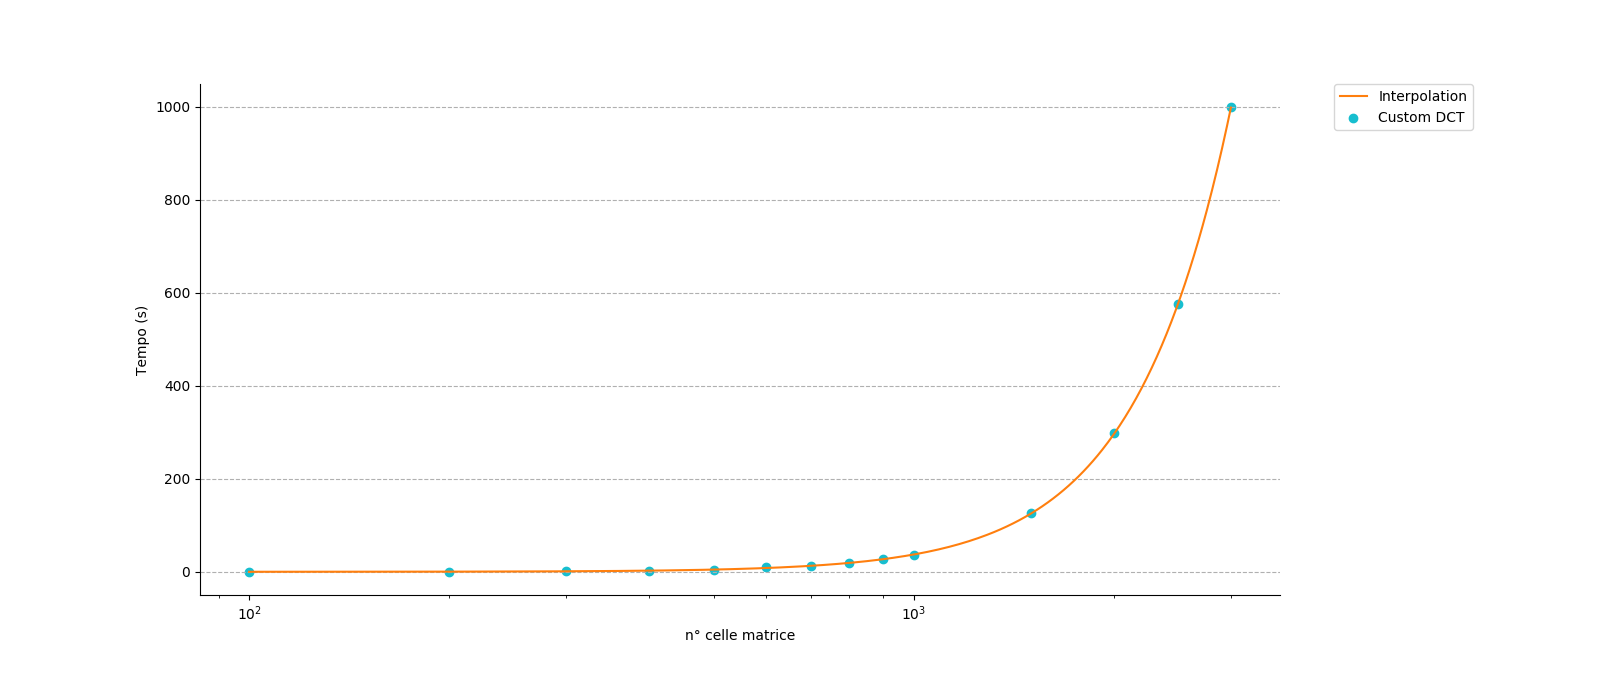
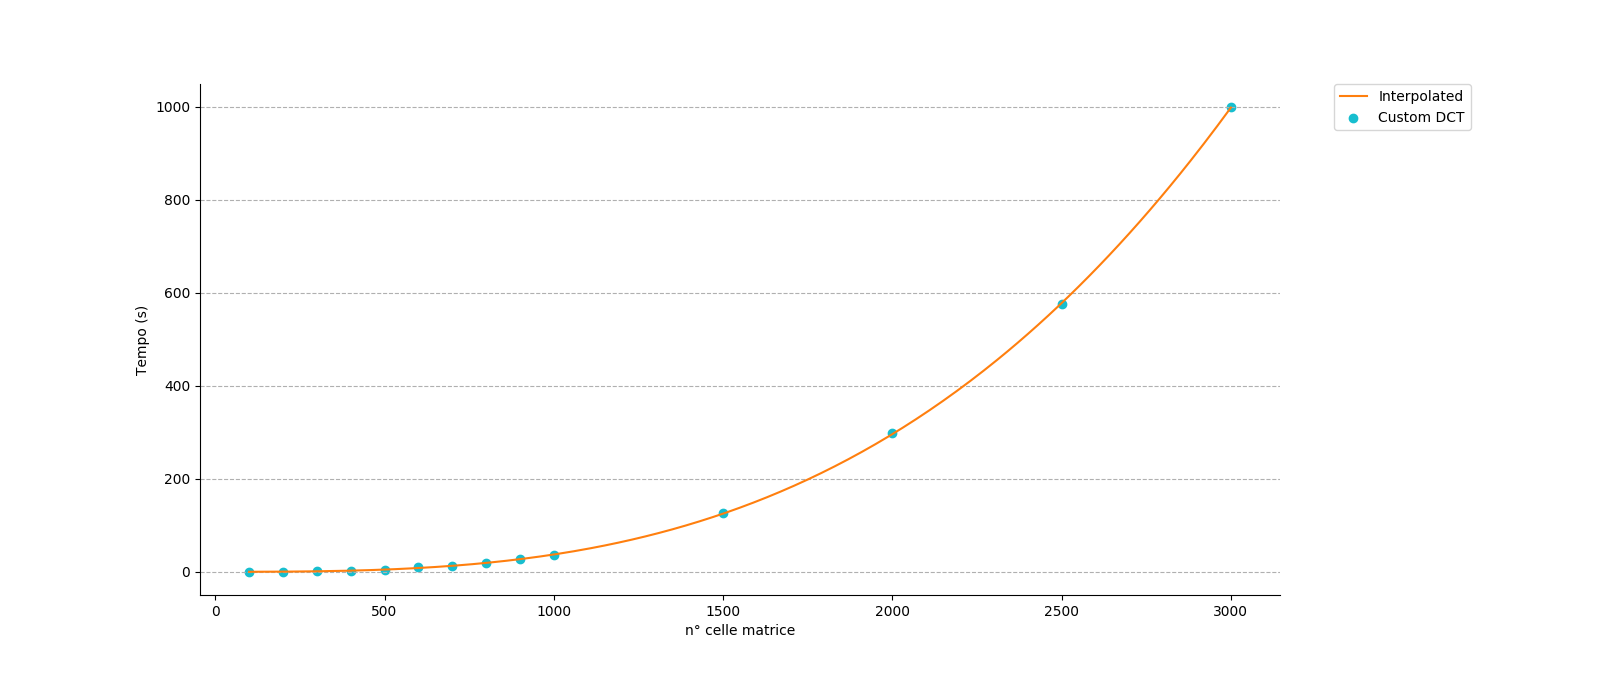
Immagini grafici

diff --git a/progetto2/grafici/graficone.py b/progetto2/grafici/graficone.py
@@ -70,14 +70,15 @@ x_interpolated = list(range(100, 3001, 10))
 y_interpolated = [sum([a[0]*(x_i**3) + a[1]*(x_i**2) + a[2]*(x_i) + a[3]]) for x_i in x_interpolated]
 y_nlogn = [1000*x_i*math.log(x_i) for x_i in x_interpolated]
 plt.plot(x, dt['scipy'], color=tableau20[18], marker='o', dashes=[2,2], label='Scipy DCT')
-# plt.scatter(x, dt['custom'], color=tableau20[2], marker='o', label='Custom DCT')
-# plt.plot(x_interpolated, y_interpolated, dashes=[2,2], color=tableau20[2])
+#plt.scatter(x, dt['custom'], color=tableau20[18], marker='o', label='Custom DCT')
+#plt.plot(x_interpolated, y_interpolated, label='Interpolated', color=tableau20[2])
 
 
 
 
 plt.legend(bbox_to_anchor=(1.05, 1), loc=2, borderaxespad=0.)
-plt.xscale('log')
+#plt.xscale('log')
+#plt.yscale('log')
 plt.subplots_adjust(bottom=0.15, right=0.8)
 plt.savefig('scipy_plot.png', trasparent=True)
 plt.show()
